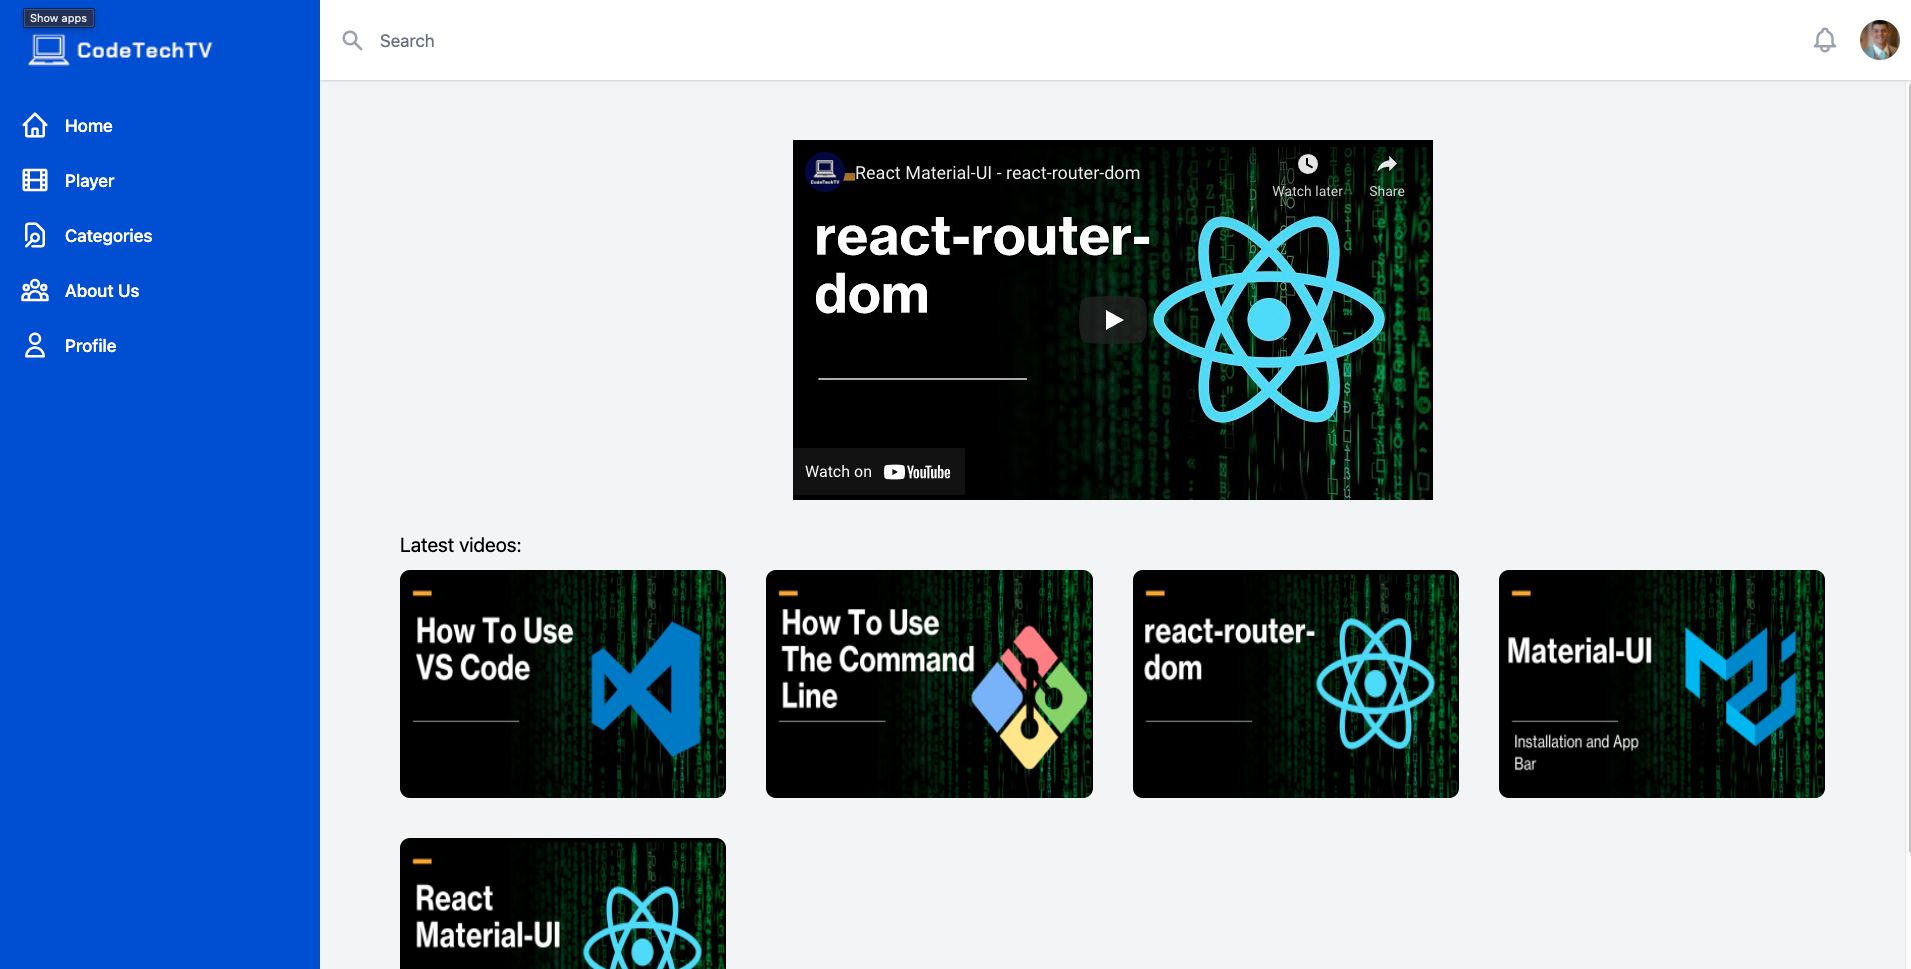
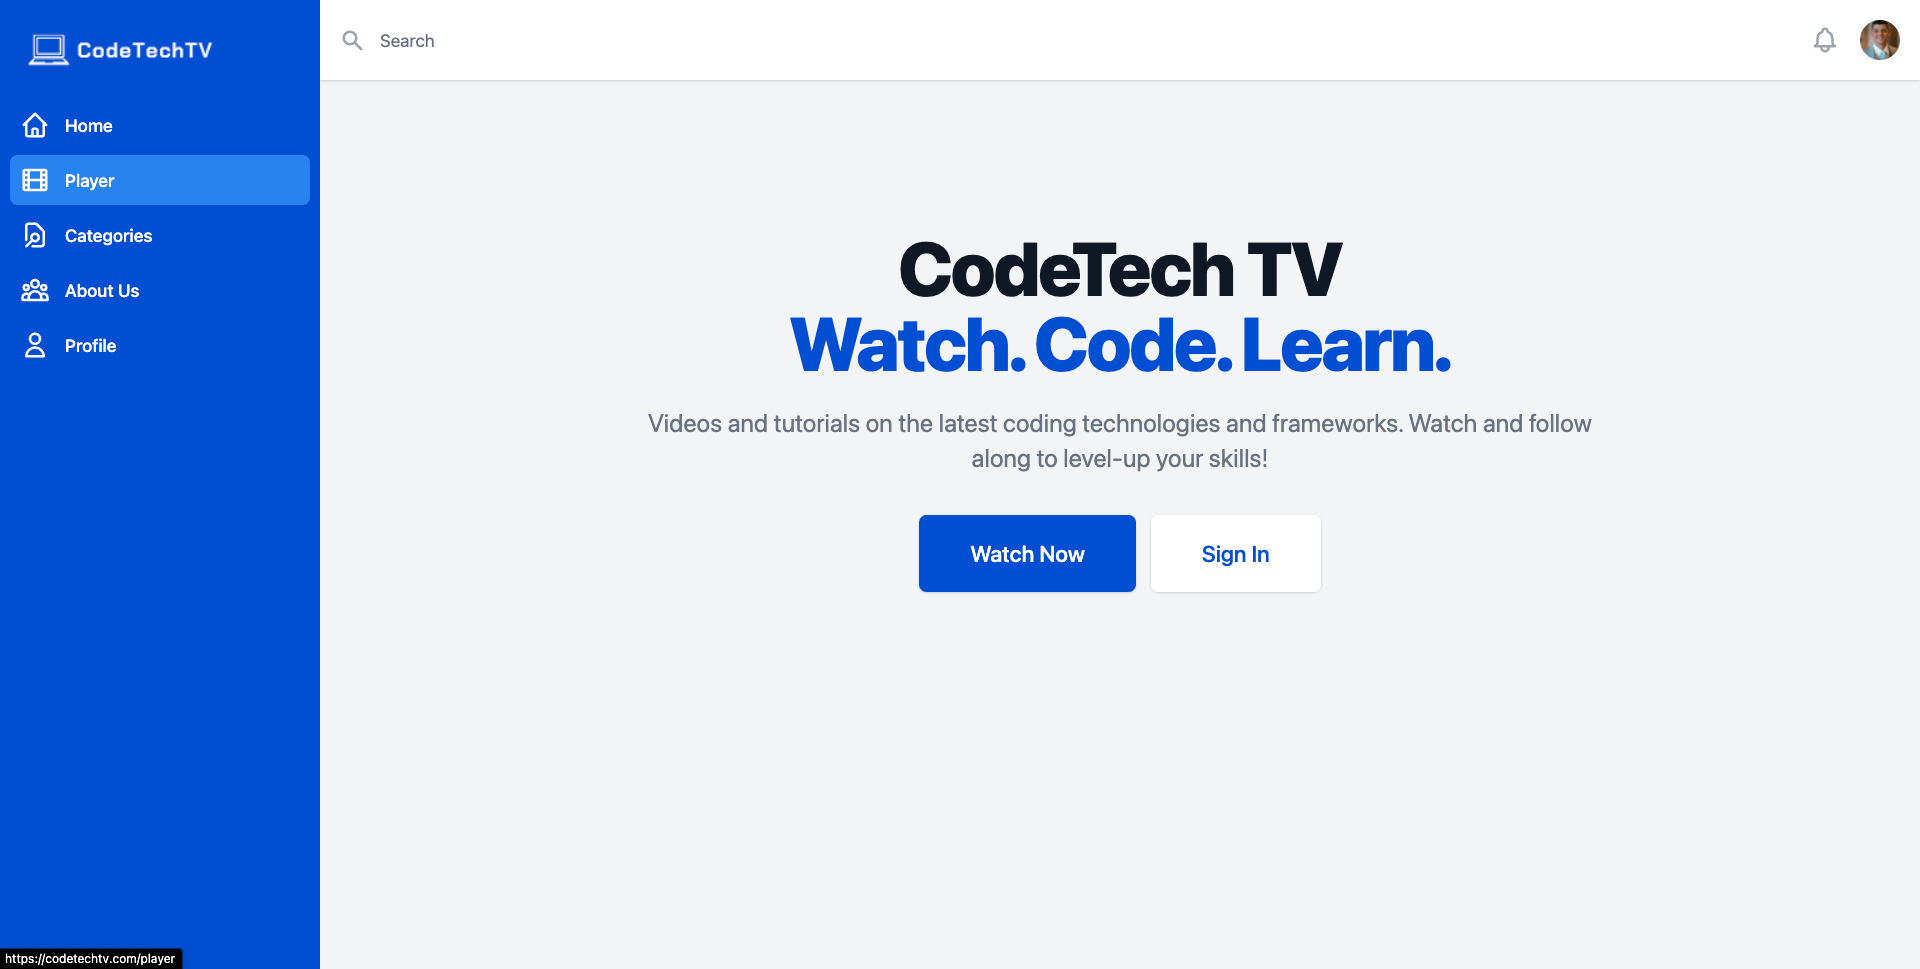
edit screenshot, signin

diff --git a/client/components/Sidebar.tsx b/client/components/Sidebar.tsx
@@ -1,28 +1,10 @@
-/*
-  This example requires Tailwind CSS v2.0+ 
-  
-  This example requires some changes to your config:
-  
-  ```
-  // tailwind.config.js
-  module.exports = {
-    // ...
-    plugins: [
-      // ...
-      require('@tailwindcss/forms'),
-    ]
-  }
-  ```
-*/
-
 import { Fragment, useState } from 'react';
+import { useSession } from 'next-auth/client';
 import { Dialog, Menu, Transition } from '@headlessui/react';
 import {
   BellIcon,
-  FolderIcon,
   HomeIcon,
   MenuAlt2Icon,
-  UsersIcon,
   XIcon,
   DocumentSearchIcon,
   FilmIcon,
@@ -59,6 +41,7 @@ function classNames(...classes) {
 
 export default function Sidebar({ children }) {
   const [sidebarOpen, setSidebarOpen] = useState(false);
+  const [session, loading] = useSession();
 
   return (
     <div className="h-screen flex overflow-hidden bg-gray-100">
@@ -216,11 +199,6 @@ export default function Sidebar({ children }) {
               </form>
             </div>
             <div className="ml-4 flex items-center md:ml-6">
-              <button className="bg-white p-1 rounded-full text-gray-400 hover:text-gray-500 focus:outline-none focus:ring-2 focus:ring-offset-2 focus:ring-blue-500">
-                <span className="sr-only">View notifications</span>
-                <BellIcon className="h-6 w-6" aria-hidden="true" />
-              </button>
-
               {/* Profile dropdown */}
               <Menu as="div" className="ml-3 relative">
                 {({ open }) => (
@@ -228,13 +206,13 @@ export default function Sidebar({ children }) {
                     <div>
                       <Menu.Button className="max-w-xs bg-white flex items-center text-sm rounded-full focus:outline-none focus:ring-2 focus:ring-offset-2 focus:ring-blue-500">
                         <span className="sr-only">Open user menu</span>
-                        <img
-                          className="h-8 w-8 rounded-full"
-                          src={
-                            'https://avatars.githubusercontent.com/jeffhogg86'
-                          }
-                          alt="avatar"
-                        />
+                        {session && (
+                          <img
+                            className="h-8 w-8 rounded-full"
+                            src={session.user.image}
+                            alt="avatar"
+                          />
+                        )}
                       </Menu.Button>
                     </div>
                     <Transition

diff --git a/client/components/Hero.tsx b/client/components/Hero.tsx
@@ -1,6 +1,8 @@
-import { signIn } from 'next-auth/client';
+import { useSession } from 'next-auth/client';
 
 export default function Hero() {
+  const [session, loading] = useSession();
+
   return (
     <div>
       <main className="mt-16 mx-auto max-w-7xl px-4 sm:mt-24">
@@ -16,22 +18,24 @@ export default function Hero() {
             frameworks. Watch and follow along to level-up your skills!
           </p>
           <div className="mt-5 max-w-md mx-auto sm:flex sm:justify-center md:mt-8">
-            <div className="rounded-md shadow">
+            <div className="rounded-full shadow">
               <a
                 href="/player"
-                className="w-full flex items-center justify-center px-8 py-3 border border-transparent text-base font-medium rounded-md text-white bg-blue-700 hover:bg-indigo-700 md:py-4 md:text-lg md:px-10"
+                className="w-full flex items-center justify-center px-8 py-3 border border-transparent text-base font-medium rounded-full text-white bg-blue-700 hover:bg-indigo-700 md:py-4 md:text-lg md:px-10"
               >
                 Watch Now
               </a>
             </div>
-            <div className="mt-3 rounded-md shadow sm:mt-0 sm:ml-3">
-              <a
-                href="/api/auth/signin"
-                className="w-full flex items-center justify-center px-8 py-3 border border-transparent text-base font-medium rounded-md text-blue-700 bg-white hover:bg-gray-50 md:py-4 md:text-lg md:px-10"
-              >
-                Sign In
-              </a>
-            </div>
+            {!session && (
+              <div className="mt-3 rounded-full shadow sm:mt-0 sm:ml-3">
+                <a
+                  href="/api/auth/signin"
+                  className="w-full flex items-center justify-center px-8 py-3 border border-transparent text-base font-medium rounded-full text-blue-700 bg-white hover:bg-gray-50 md:py-4 md:text-lg md:px-10"
+                >
+                  Sign In
+                </a>
+              </div>
+            )}
           </div>
         </div>
       </main>

diff --git a/client/components/UserProfile.tsx b/client/components/UserProfile.tsx
@@ -14,7 +14,7 @@ export default function UserProfile() {
                 <img
                   className="w-16 h-16 rounded-full lg:w-20 lg:h-20"
                   src={session.user.image}
-                  alt=""
+                  alt="avatar"
                 />
                 <div className="font-medium text-lg leading-6 space-y-1">
                   <h3>{session.user.name}</h3>
@@ -28,32 +28,3 @@ export default function UserProfile() {
     </div>
   );
 }
-
-// import { Card, CardContent, Typography } from '@material-ui/core';
-
-// const UserProfile = () => {
-// const [session, loading] = useSession();
-
-//   return (
-//     <div>
-//       {!session && <>Sign In</>}
-//       {session && (
-//         <>
-//           <Card>
-//             <img src={session.user.image} alt="users image" />
-//             <CardContent>
-//               <Typography gutterBottom variant="h5" component="h2">
-//                 {session.user.name}
-//               </Typography>
-//               <Typography variant="body2" color="textSecondary" component="p">
-//                 {session.user.email}
-//               </Typography>
-//             </CardContent>
-//           </Card>
-//         </>
-//       )}
-//     </div>
-//   );
-// };
-
-// export default UserProfile;
